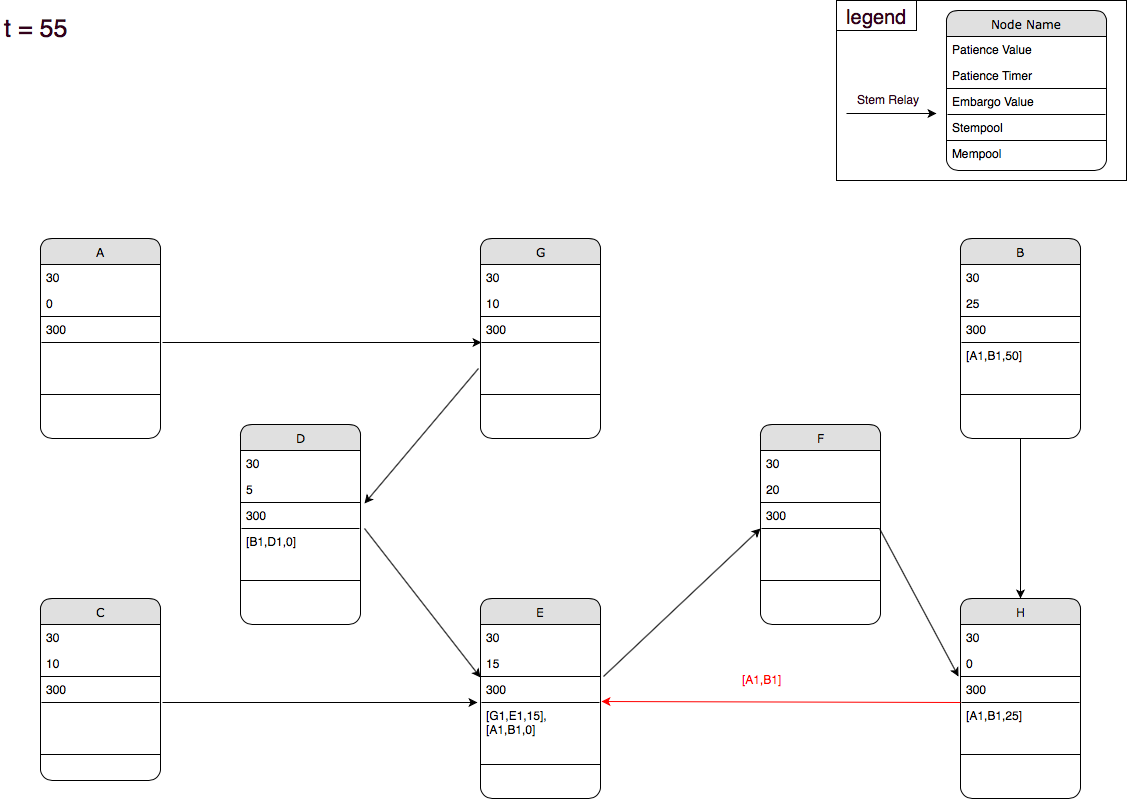
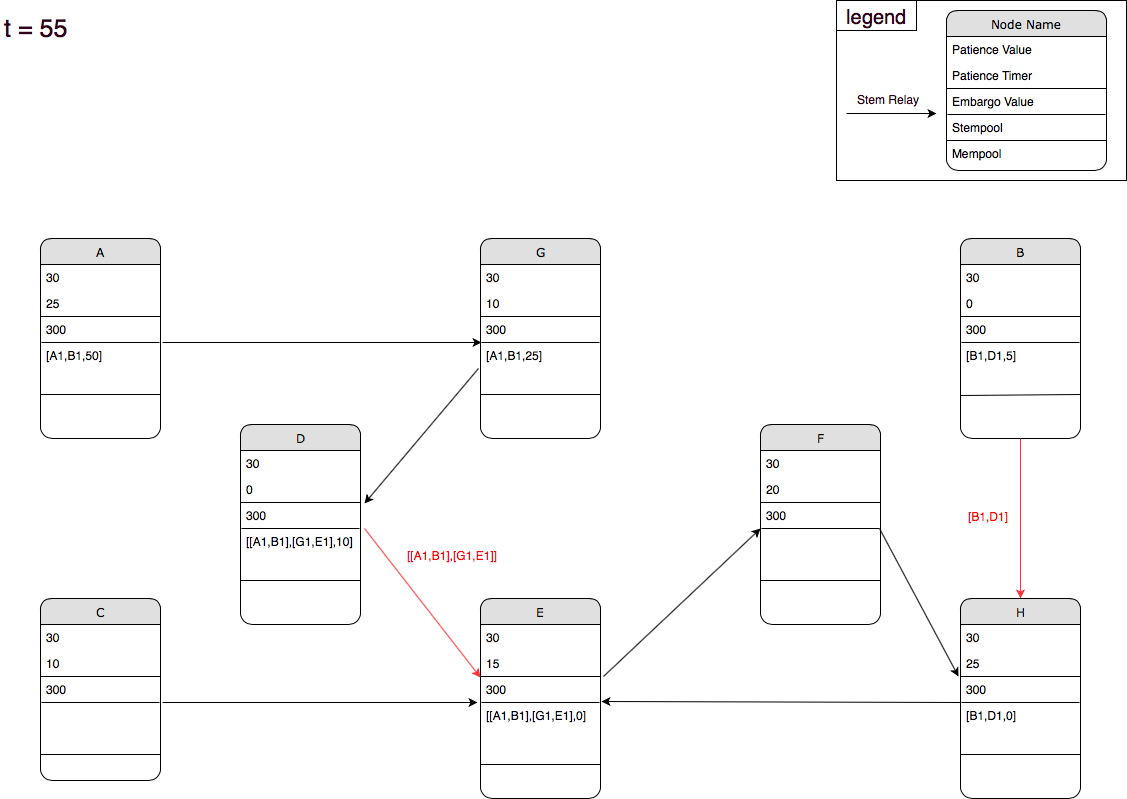
Update simulation

diff --git a/doc/dandelion/simulation.md b/doc/dandelion/simulation.md
@@ -1,8 +1,8 @@
 Dandelion Simulation
 ==================
-This document describes a network of node with Dandelion.
+This document describes a network of node using the Dandelion protocol with transaction aggregation.
 
-In this scenario, we simulate a successful aggregation but a failed transaction cut-through forcing a node to revert its stempool state.
+In this scenario, we simulate a successful aggregation.
 
 This document also helps visualizing all the timers in a simple way.
 
@@ -12,77 +12,66 @@ This document also helps visualizing all the timers in a simple way.
 
 ## T = 5
 
-A sends grins to B. 
-B flips a coin and decides to add it to its stempool and starts the embargo timer for this transaction.
+A sends grins to B. A adds the transaction to its stempool and starts the embargo timer for this transaction.
 
 ![t = 5](images/t5.png)
 
 ## T = 10
 
-B waits until he runs out of patience.
+A waits until he runs out of patience.
 
 ![t = 10](images/t10.png)
 
 ## T = 30
 
-B runs out of patience and broadcasts the aggregated stem transaction to its Dandelion relay H.
-H receives the stem transaction, flips a coin and decides to add it to its stempool and starts the embargo timer for this transaction.
-
+A runs out of patience, flips a coin and broadcasts the stem transaction to its Dandelion relay G.
+G receives the stem transaction, add it to its stempool and starts the embargo timer for this transaction.
+ 
 ![t = 30](images/t30.png)
 
 ## T = 40
 
 G sends grins to E.
-E flips a coin and decides to add it to its stempool and starts the embargo timer for this transaction.
-B and H wait.
+G adds the transaction it to its stempool and starts the embargo timer for this transaction.
 
 ![t = 40](images/t40.png)
 
-## T = 55
+## T = 45
+
+G runs out of patience, flips a coin and broadcasts the stem transaction to its Dandelion relay D.
+
+![t = 45](images/t45.png)
+
+## T = 50
 
 B spends B1 to D.
-D flips a coin and decides to add it to its stempool and starts the embargo timer for this transaction.
-H runs out of patience broadcasts the aggregated stem transaction to its Dandelion relay E.
-E receives the stem transaction, flips a coin and decides to add it to its stempool and starts the embargo timer for this transaction.
+B add it to its stempool and starts the embargo timer for this transaction.
 
 ![t = 55](images/t55.png)
 
-## T = 65
+## T = 55
 
-Nodes are waiting.
+B runs out of patience, flips a coin and broadcasts the stem transaction to its Dandelion relay H.
+D runs out of patience, flips a coin and broadcasts the aggregated stem transaction to its Dandelion relay E.
+E receives the stem transaction, add it to its stempool and starts the embargo timer for this transaction.
 
-![t = 65](images/t65.png)
+![t = 55](images/t55.png)
 
-## T = 70
+## T = 60
 
-E runs out of patience broadcasts the aggregated stem transaction to its Dandelion relay F.
-F receives the stem transaction, flips a coin and decides to add it to its stempool and starts the embargo timer for this transaction.
+H runs out of patience, flips a coin broadcasts the stem transaction to its Dandelion relay E.
+E receives the stem transaction, add it to its stempool and starts the embargo timer for this transaction.
 
-![t = 70](images/t70.png)
+![t = 60](images/t60.png)
 
-## T = 80
+## T = 70 - Step 1
 
-D runs out of patience, broadcasts the aggregated stem transaction to its Dandelion relay.
-E receives the stem transaction, flips a coin and decides to add it to its stempool and starts the embargo timer for this transaction. aggregates them (thus removing duplicate input/output pair B1) and starts its patience timer.
+E runs out of patience, flips a coin and decide to broadcast the transaction to all its peers (fluff in the mempool).
 
-![t = 80](images/t80.png)
+![t = 70_1](images/t70_1.png)
 
-## T = 85
-
-Nodes are waiting.
-
-![t = 85](images/t85.png)
-
-## T = 95 - Step 1
-
-F runs out of patience, broadcasts the aggregated stem transaction to its Dandelion relay H.
-H receives the transaction, flips a coin and decide to broadcast the transaction to all its peers (fluff in the mempool).
-
-![t = 95_1](images/t95_1.png)
-
-## T = 95 - Step 2
+## T = 70 - Step 2
 
 All the nodes add this transaction to their mempool and remove the related transactions from their stempool.
-E receives the transaction in its mempool and reverts the state of its stempool to avoid conflicting transactions.
 
-![t = 95_2](images/t95_2.png)
+![t = 70_2](images/t70_2.png)
